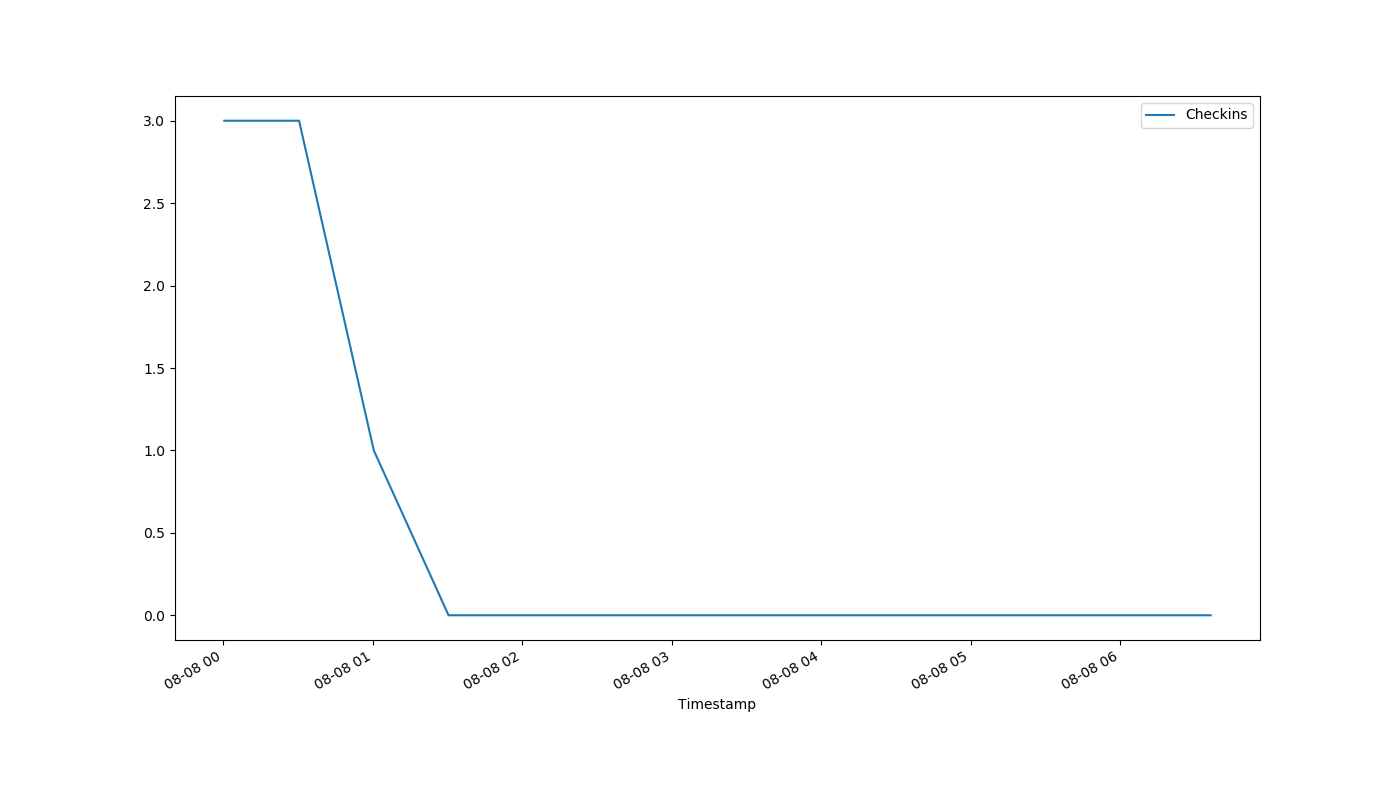
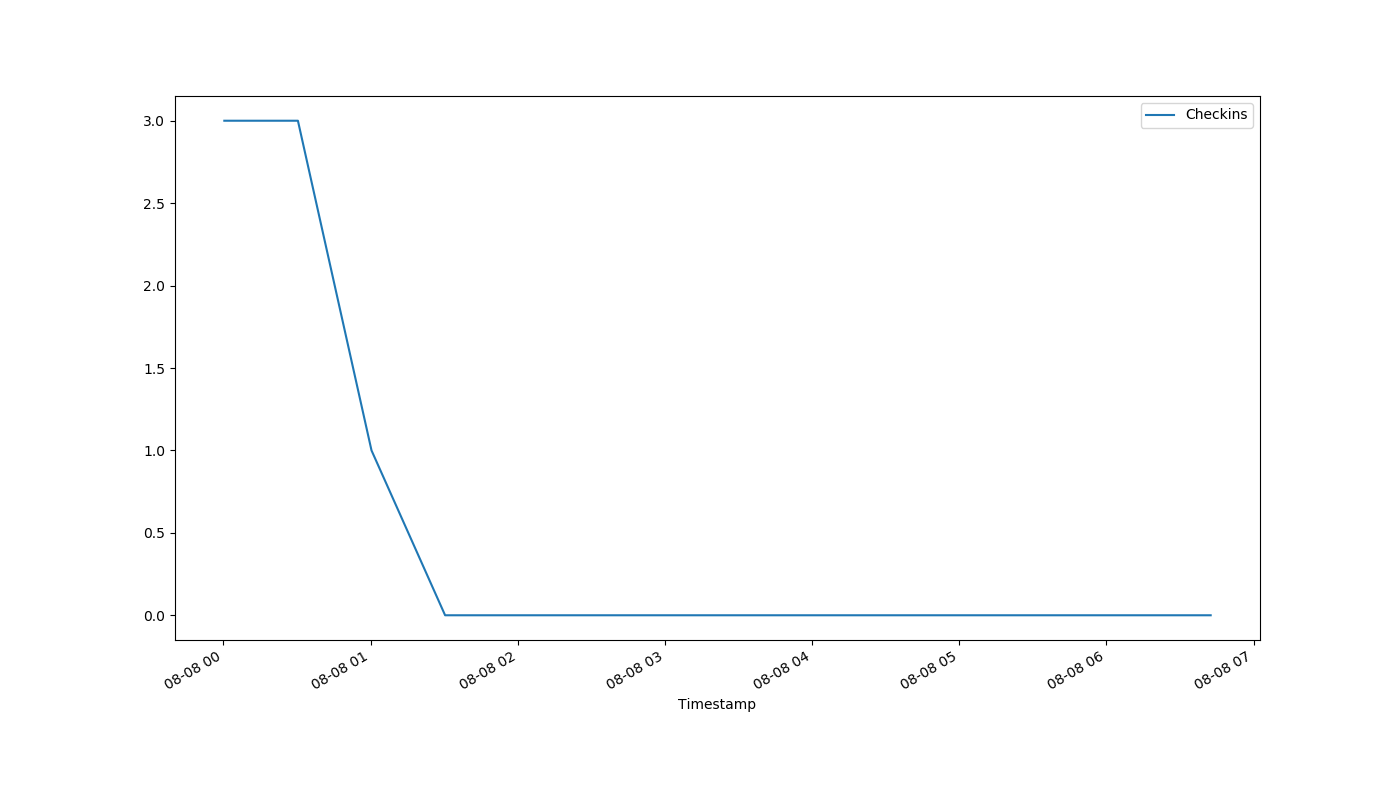
auto-Aug-08-06:45:05

diff --git a/index.html b/index.html
@@ -1,1 +1,1 @@
-<!DOCTYPE html><html><head><meta http-equiv="refresh" content="30"><link rel='stylesheet' href='holmcurrent.css'></head><body><p id='count'>-1</p><div id='graph-wrap'><img id='graph' src='holmgraph-Aug-08.png'></div><p id='updated'>Last updated 06:42:18 / 06:41:18</p></body></html>
+<!DOCTYPE html><html><head><meta http-equiv="refresh" content="30"><link rel='stylesheet' href='holmcurrent.css'></head><body><p id='count'>0</p><div id='graph-wrap'><img id='graph' src='holmgraph-Aug-08.png'></div><p id='updated'>Last updated 06:43:19 / 06:42:28</p></body></html>
